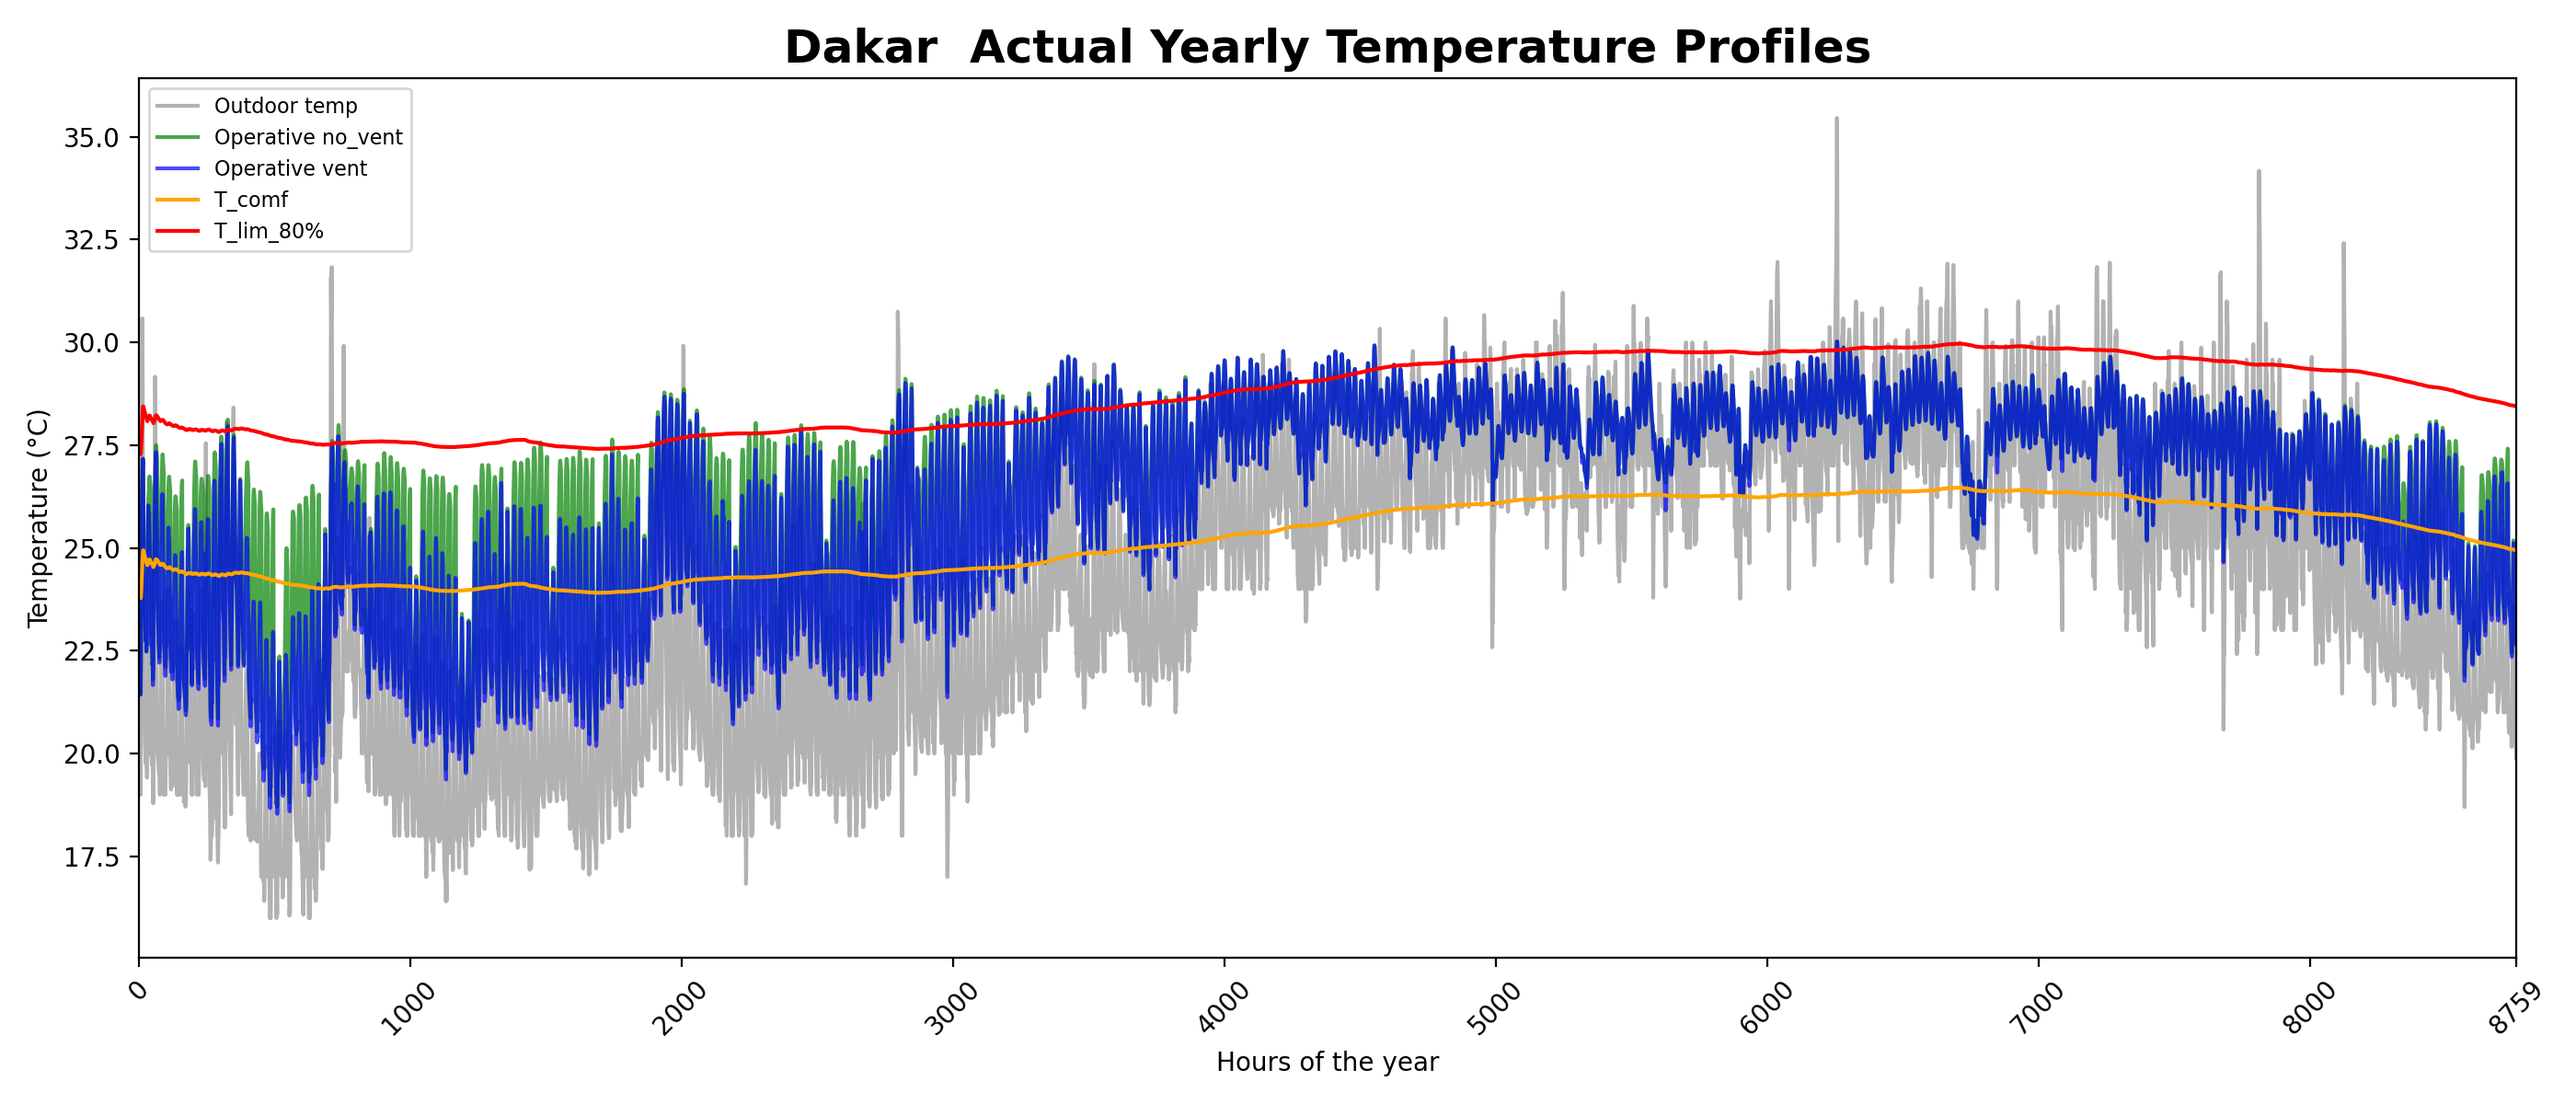
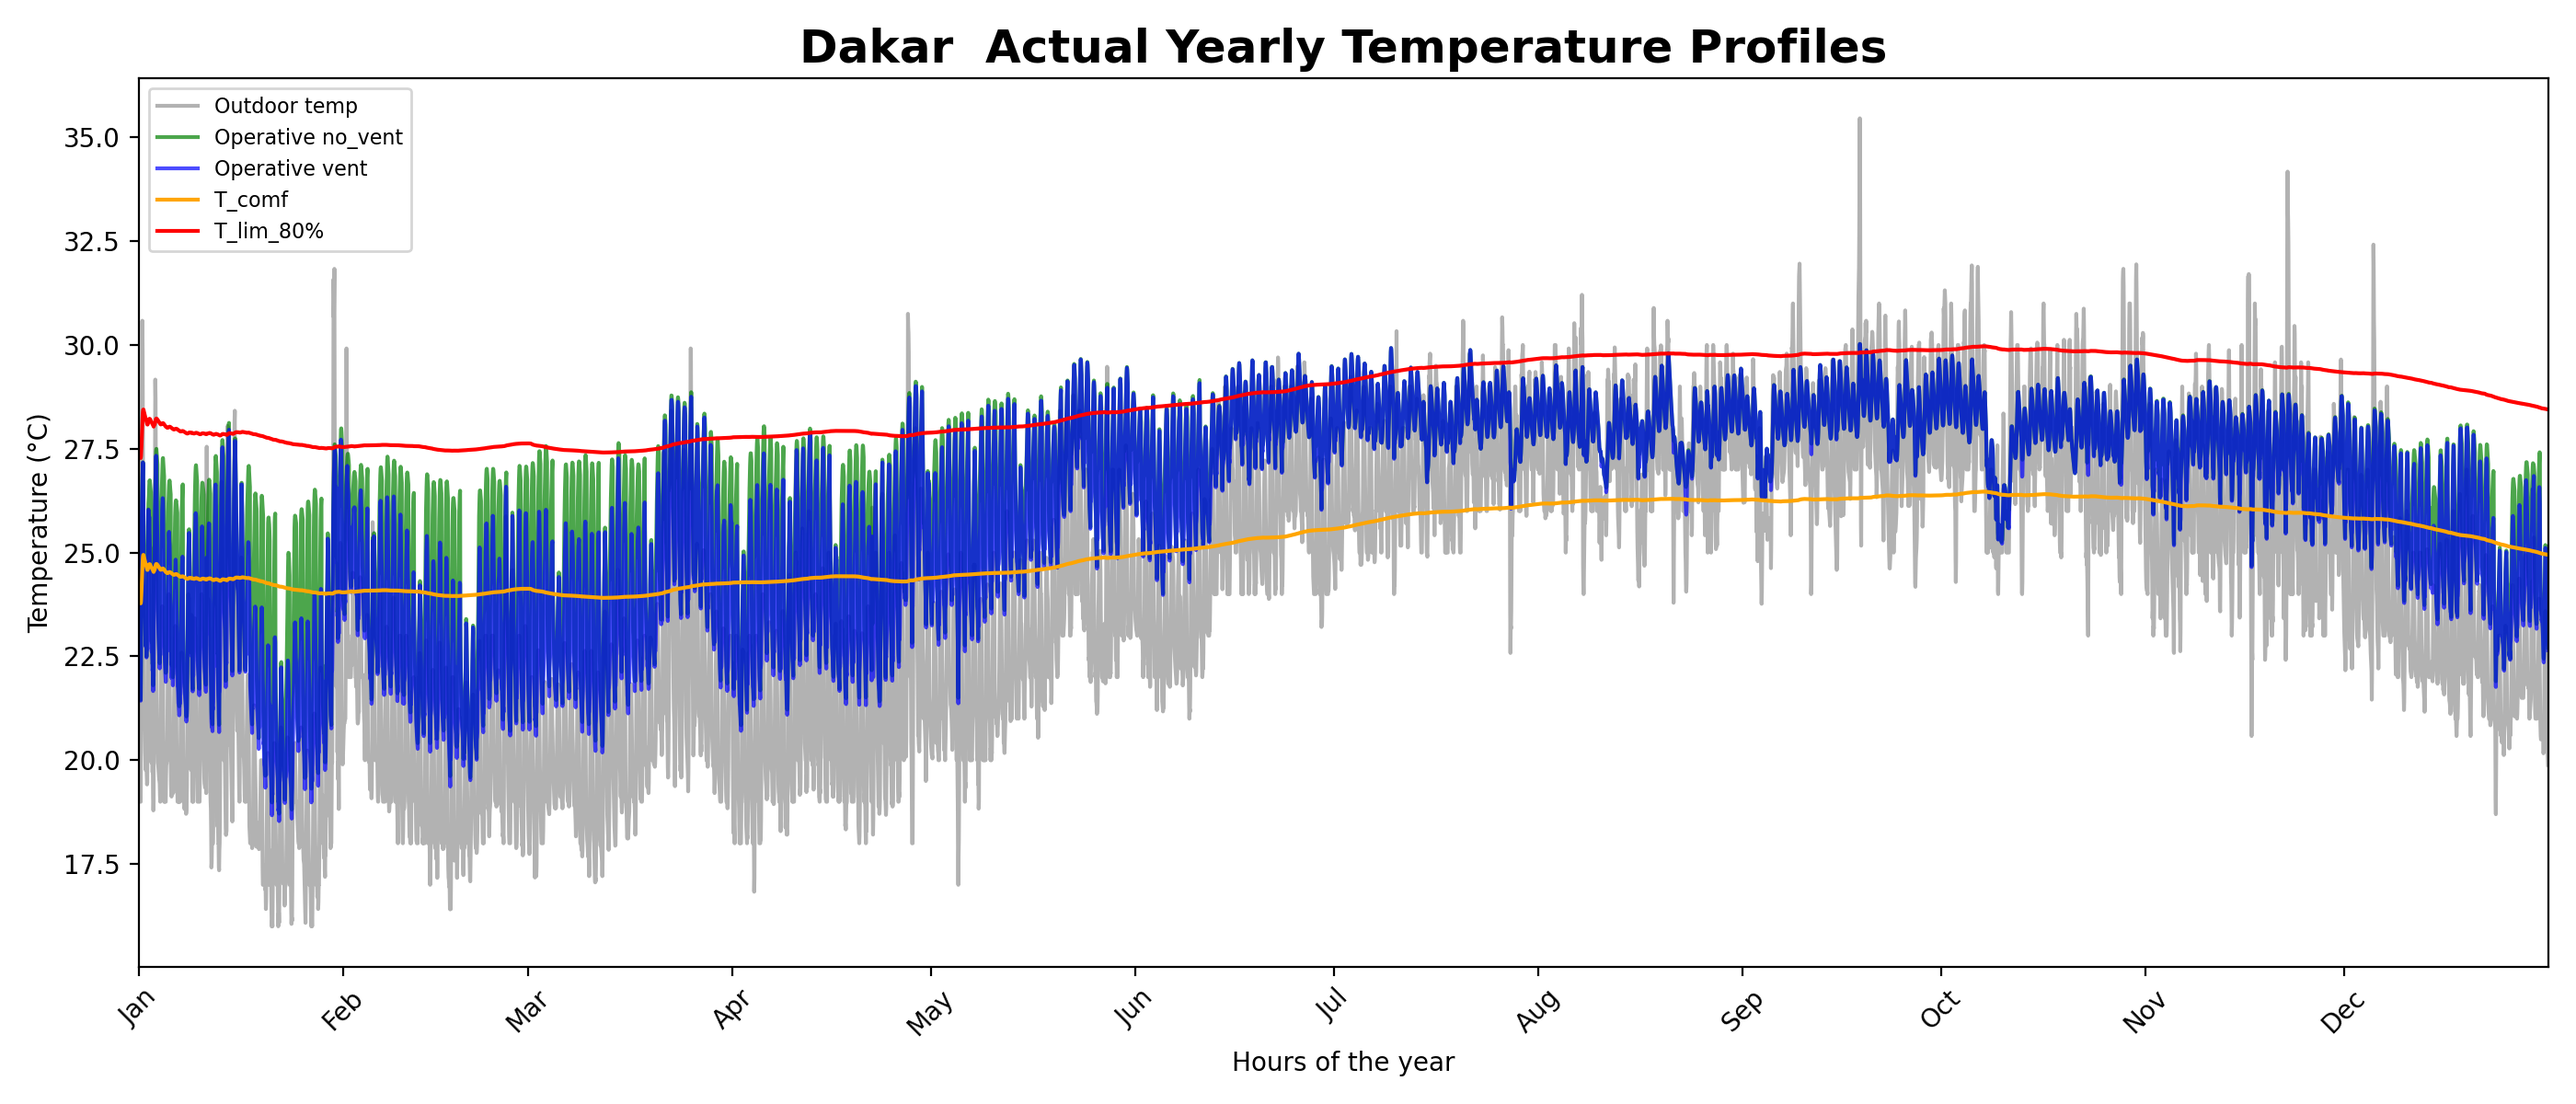
configured x axis to show months of year

diff --git a/simul/adaptive_overheat_hours.py b/simul/adaptive_overheat_hours.py
@@ -170,12 +170,34 @@ for city, df in sheets.items():
         # full span
         plt.xlim(0, len(df))
 
-        # xticks every 1000 hours from 0 to end, include final hour
-        positions = list(np.arange(0, len(df), 1000))
-        if len(positions) == 0 or positions[-1] != len(df):
-            positions.append(len(df) - 1)
-        # use numeric hour indices as xtick labels
-        labels = [str(p) for p in positions]
+        # xticks: show month names. If the DataFrame index is not datetime,
+        # assume an hourly series starting on a non-leap year Jan 1 and synthesize
+        # a DatetimeIndex for labeling purposes.
+        def _month_ticks_from_index(idx):
+            month_positions = []
+            month_labels = []
+            for m in range(1, 13):
+                matches = np.where(idx.month == m)[0]
+                if matches.size > 0:
+                    pos = int(matches[0])
+                    month_positions.append(pos)
+                    month_labels.append(idx[pos].strftime('%b'))
+            return month_positions, month_labels
+
+        if isinstance(df.index, pd.DatetimeIndex) and len(df.index) > 0:
+            positions, labels = _month_ticks_from_index(df.index)
+        else:
+            # synthesize hourly datetime index starting on a non-leap year
+            synth_idx = pd.date_range('2001-01-01', periods=len(df), freq='H')
+            positions, labels = _month_ticks_from_index(synth_idx)
+
+        # fallback to hourly numeric ticks if month extraction failed
+        if len(positions) == 0:
+            positions = list(np.arange(0, len(df), 1000))
+            if len(positions) == 0 or positions[-1] != len(df):
+                positions.append(len(df) - 1)
+            labels = [str(p) for p in positions]
+
         plt.xticks(positions, labels, rotation=45)
 
         plt.tight_layout()
